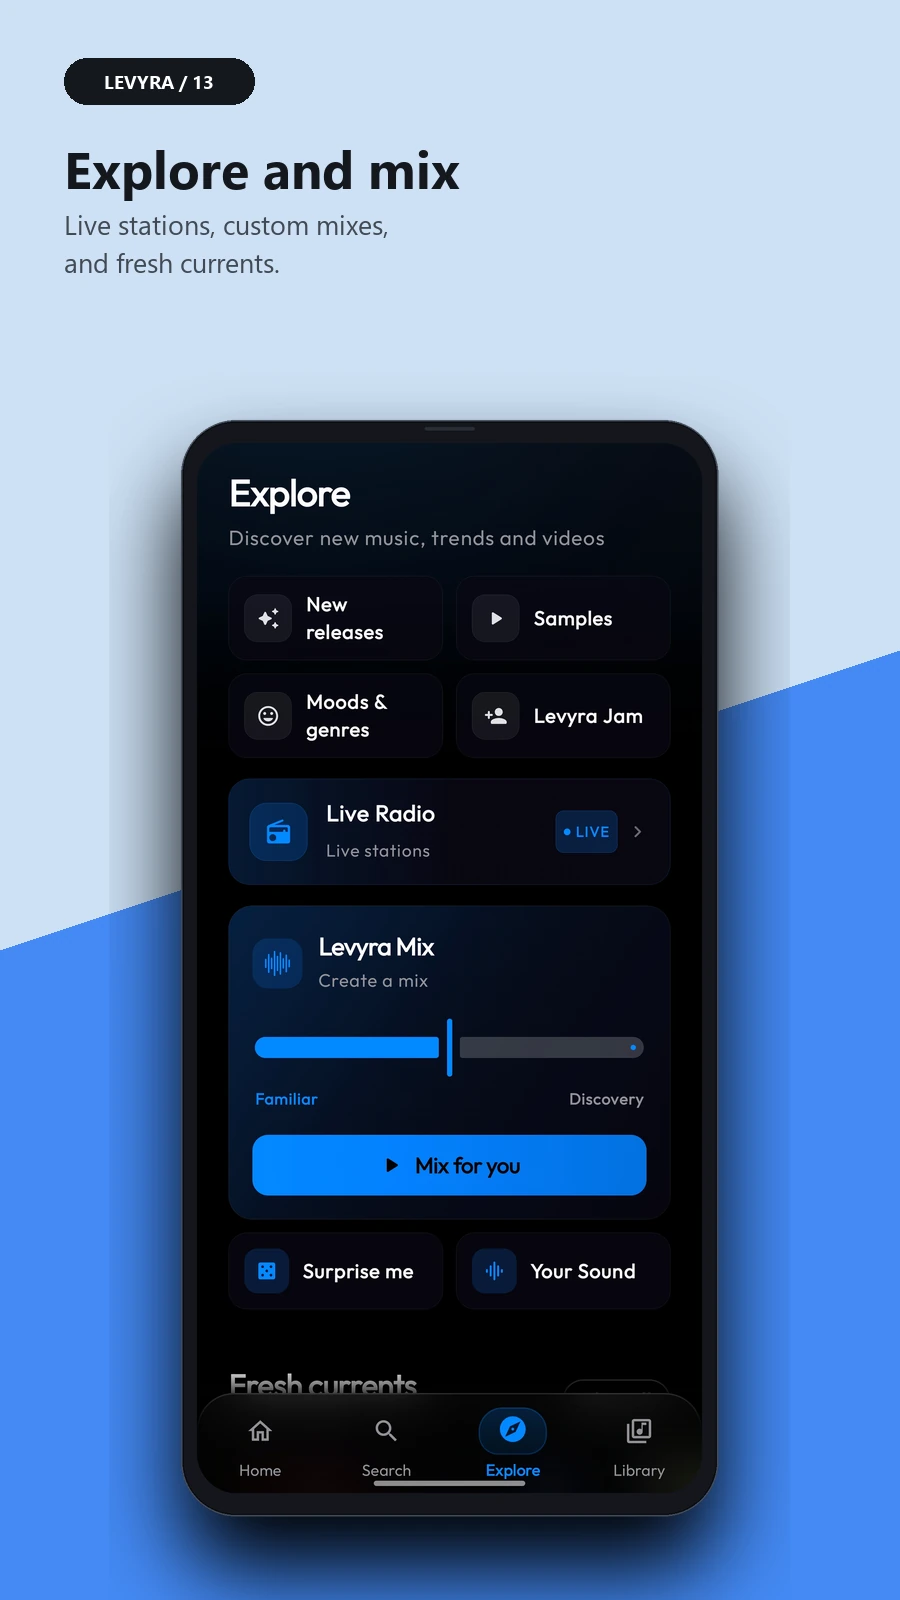
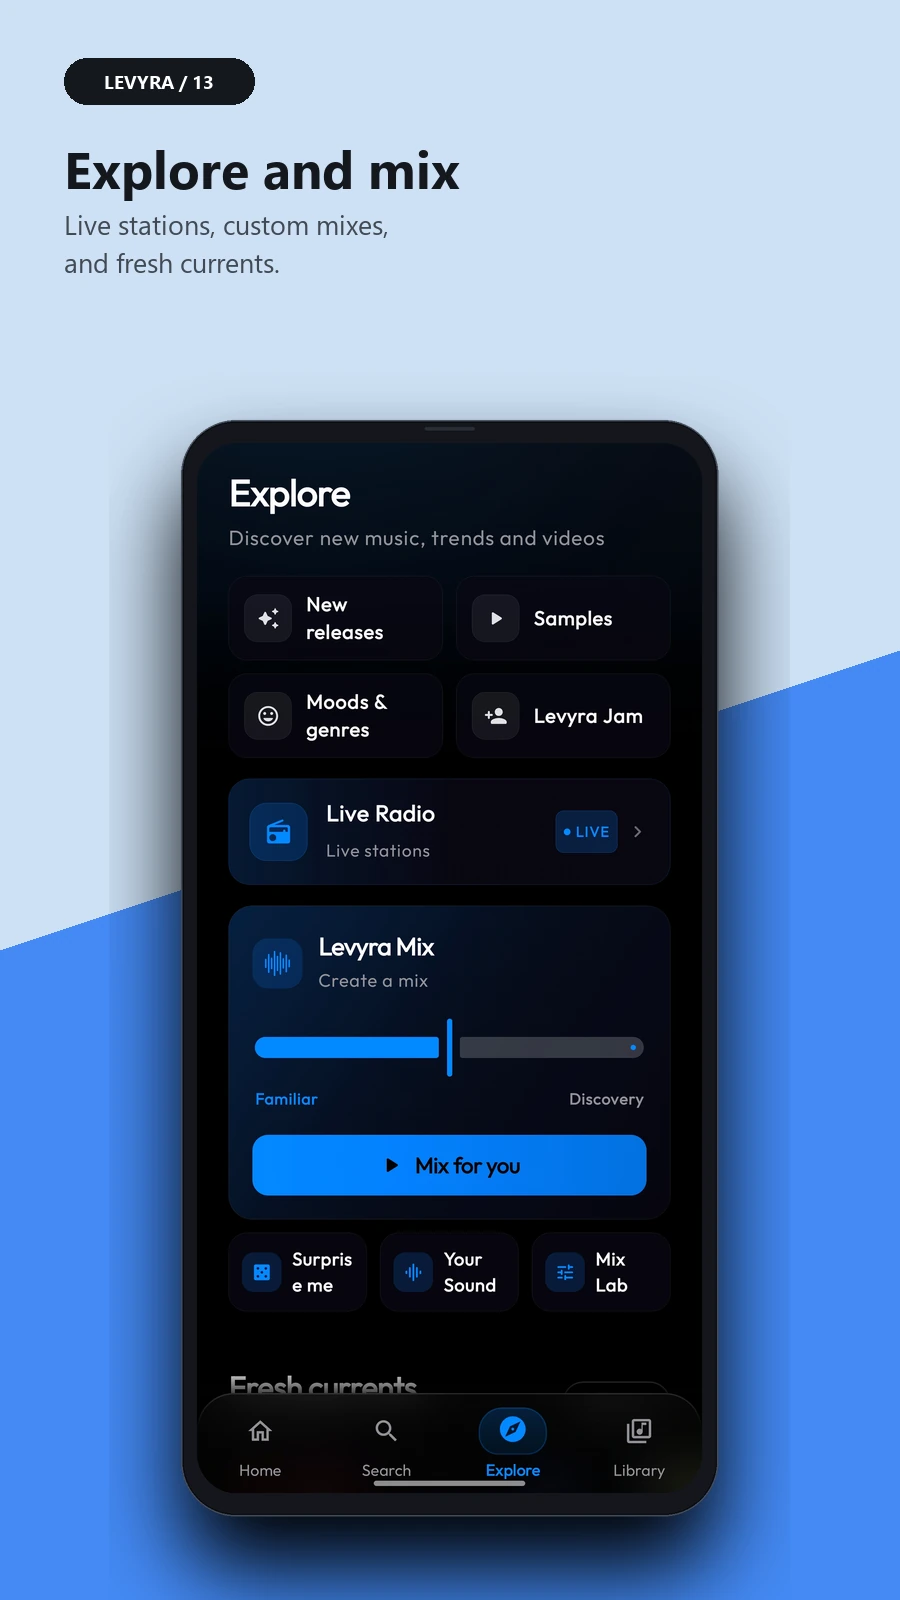
docs: style player card, update explore screenshot, and add artist playlists card

Changed region(s): [[0.28, 0.7812, 0.7156, 0.8125], [0.4044, 0.8438, 0.4667, 0.875], [0.2489, 0.8438, 0.3111, 0.875]]

diff --git a/scripts/generate_showcase_assets.py b/scripts/generate_showcase_assets.py
@@ -22,12 +22,12 @@ SCREENS = {
     "album": os.environ.get("LEVYRA_SCREEN_ALBUM", r"C:\Users\Luca Drogo\Desktop\screenshots\Screenshot_20260926_194706_LEVYRA.jpg"),
     "search": os.environ.get("LEVYRA_SCREEN_SEARCH", r"C:\Users\Luca Drogo\Desktop\screenshots\Screenshot_20260926_194736_LEVYRA.jpg"),
     "player_settings": os.environ.get("LEVYRA_SCREEN_SETTINGS", r"C:\Users\Luca Drogo\Desktop\screenshots\Screenshot_20260926_194845_LEVYRA.jpg"),
-    "explore": os.environ.get("LEVYRA_SCREEN_EXPLORE", r"C:\Users\Luca Drogo\Downloads\Screenshot_20260927_140841_LEVYRA.jpg"),
+    "explore": os.environ.get("LEVYRA_SCREEN_EXPLORE", r"C:\Users\Luca Drogo\Downloads\Screenshot_20260929_194853_LEVYRA.jpg"),
     "new_releases": os.environ.get("LEVYRA_SCREEN_RELEASES", r"C:\Users\Luca Drogo\Downloads\Screenshot_20260927_132248_LEVYRA.jpg"),
     "collections": os.environ.get("LEVYRA_SCREEN_COLLECTIONS", r"C:\Users\Luca Drogo\Downloads\Screenshot_20260927_132323_LEVYRA.jpg"),
     "listening_rhythm": os.environ.get("LEVYRA_SCREEN_RHYTHM", r"C:\Users\Luca Drogo\Downloads\Screenshot_20260927_131943_LEVYRA.jpg"),
     "player_deck": os.environ.get("LEVYRA_SCREEN_PLAYER_DECK", r"C:\Users\Luca Drogo\Downloads\Screenshot_20260929_195520_LEVYRA.jpg"),
-    "explore_mix": os.environ.get("LEVYRA_SCREEN_EXPLORE_MIX", r"C:\Users\Luca Drogo\Downloads\Screenshot_20260929_194853_LEVYRA.jpg"),
+    "artist_playlists": os.environ.get("LEVYRA_SCREEN_ARTIST_PLAYLISTS", r"C:\Users\Luca Drogo\Downloads\Screenshot_20260929_201454_LEVYRA.jpg"),
     "settings_vault": os.environ.get("LEVYRA_SCREEN_SETTINGS_VAULT", r"C:\Users\Luca Drogo\Downloads\Screenshot_20260929_194944_LEVYRA.jpg"),
     "your_orbit": os.environ.get("LEVYRA_SCREEN_ORBIT", r"C:\Users\Luca Drogo\Downloads\Screenshot_20260929_195235_LEVYRA.jpg"),
 }
@@ -395,8 +395,8 @@ def generate_feature_cards():
         ("new_releases", "14", "Fresh off the stage", "New singles and albums\nupdated every week.", (245, 215, 210), (225, 115, 95)),
         ("collections", "15", "Curated for you", "Playlists and gems\naround what you love.", (226, 212, 244), (152, 95, 215)),
         ("listening_rhythm", "16", "Your listening rhythm", "Activity, peak hours,\nand listening habits.", (210, 238, 225), (72, 180, 135)),
-        ("player_deck", "17", "Pick your stage", "Same music, different stage.\nSwitching never interrupts.", (242, 218, 222), (195, 78, 98)),
-        ("explore_mix", "18", "Tune your mix", "Live stations, custom mix,\nand continuous discovery.", (210, 226, 245), (68, 126, 214)),
+        ("player_deck", "17", "Style your player", "Canvas, cards, or artwork.\nSwitch layouts seamlessly.", (242, 218, 222), (195, 78, 98)),
+        ("artist_playlists", "18", "Artist playlists", "Curated sets, tours, and\nthe best of every artist.", (210, 225, 242), (48, 120, 225)),
         ("settings_vault", "19", "Tailor every detail", "Audio, design, gestures,\nand local Vault backups.", (220, 228, 234), (105, 142, 165)),
         ("your_orbit", "20", "In your orbit", "The tracks and artists\nthat always return to you.", (235, 218, 240), (165, 102, 185)),
     ]

diff --git a/README.md b/README.md
@@ -136,7 +136,7 @@ Artwork, lyrics, queue position, listening history and recommendations still bel
 </p>
 <p align="center">
   <a href="docs/assets/showcase/cards/17_player_deck.webp"><img src="docs/assets/showcase/cards/17_player_deck.webp?v=original-a261d7ce" width="200" alt="Levyra player deck" /></a>
-  <a href="docs/assets/showcase/cards/18_explore_mix.webp"><img src="docs/assets/showcase/cards/18_explore_mix.webp?v=original-a261d7ce" width="200" alt="Levyra tune your mix and live radio" /></a>
+  <a href="docs/assets/showcase/cards/18_artist_playlists.webp"><img src="docs/assets/showcase/cards/18_artist_playlists.webp?v=original-a261d7ce" width="200" alt="Levyra artist playlists and collections" /></a>
   <a href="docs/assets/showcase/cards/19_settings_vault.webp"><img src="docs/assets/showcase/cards/19_settings_vault.webp?v=original-a261d7ce" width="200" alt="Levyra player settings and vault" /></a>
   <a href="docs/assets/showcase/cards/20_your_orbit.webp"><img src="docs/assets/showcase/cards/20_your_orbit.webp?v=original-a261d7ce" width="200" alt="Levyra orbit and favorite tracks" /></a>
 </p>
